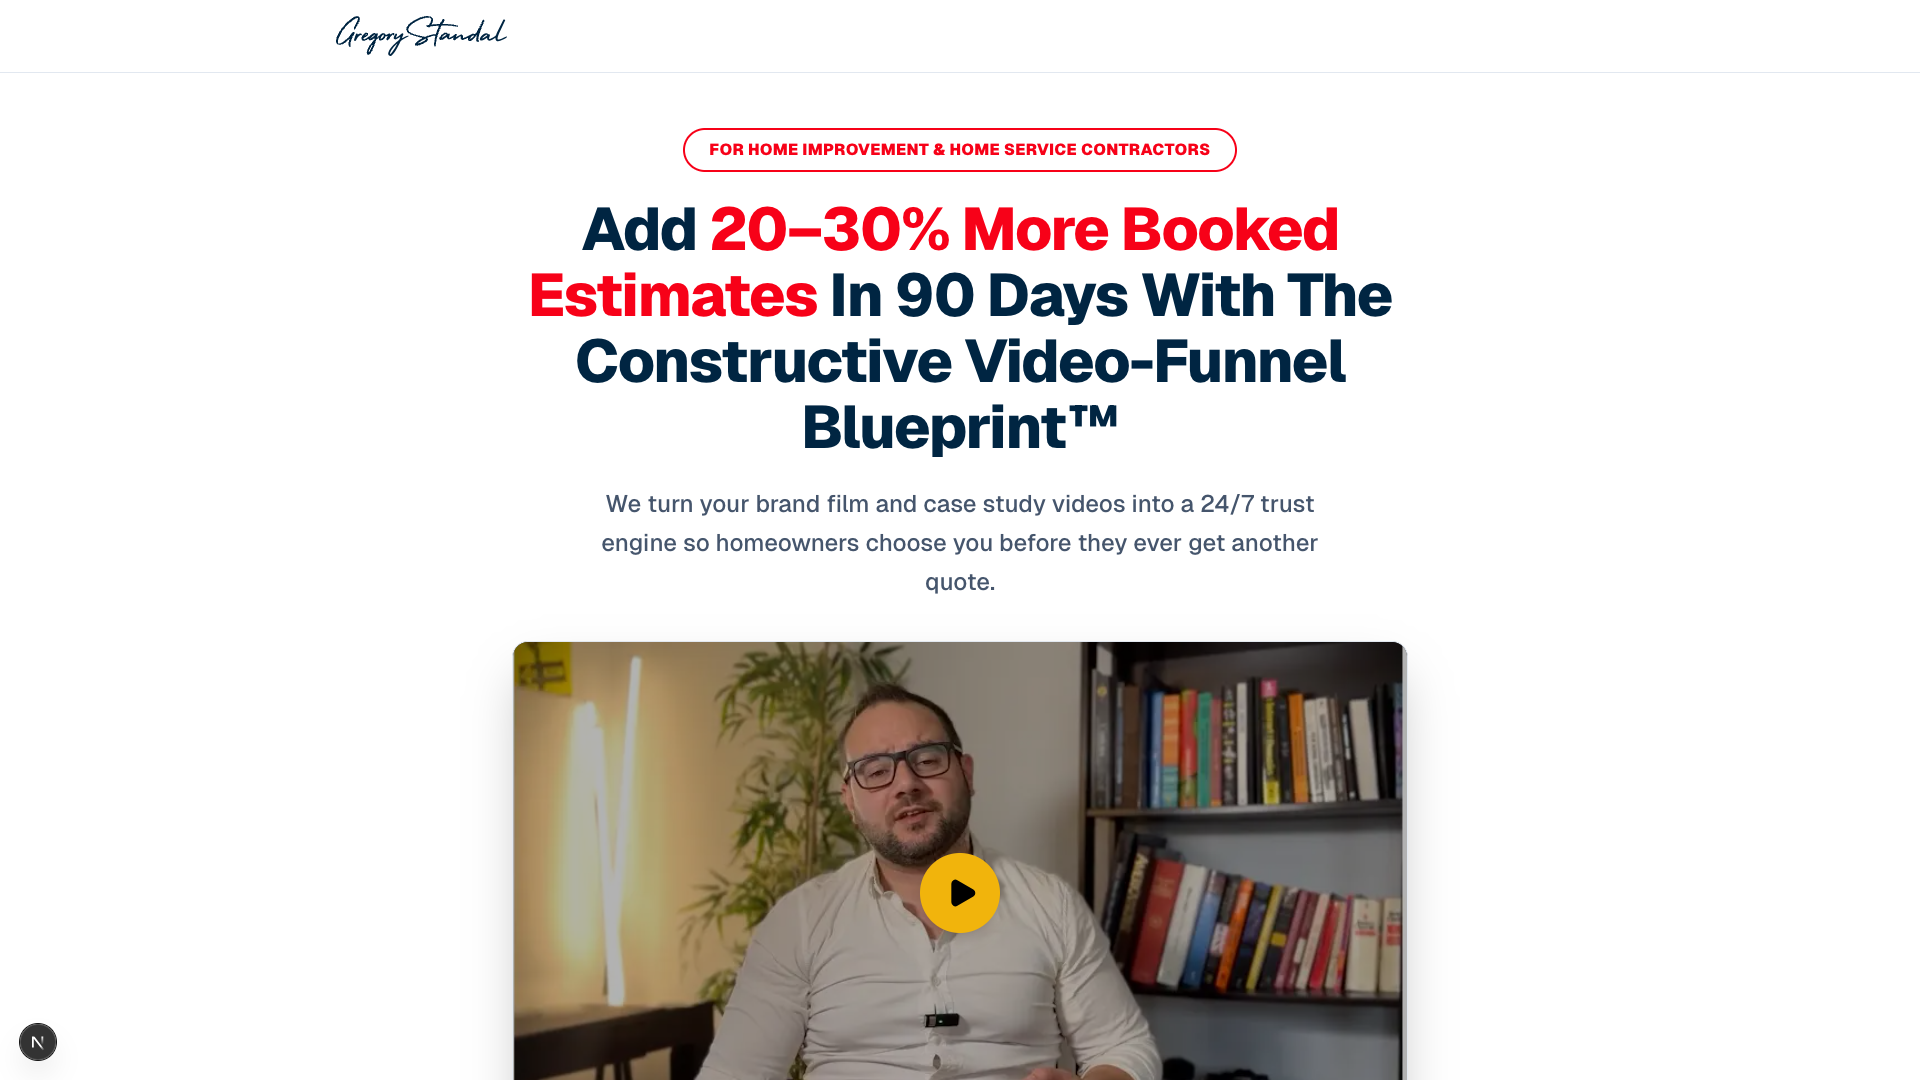
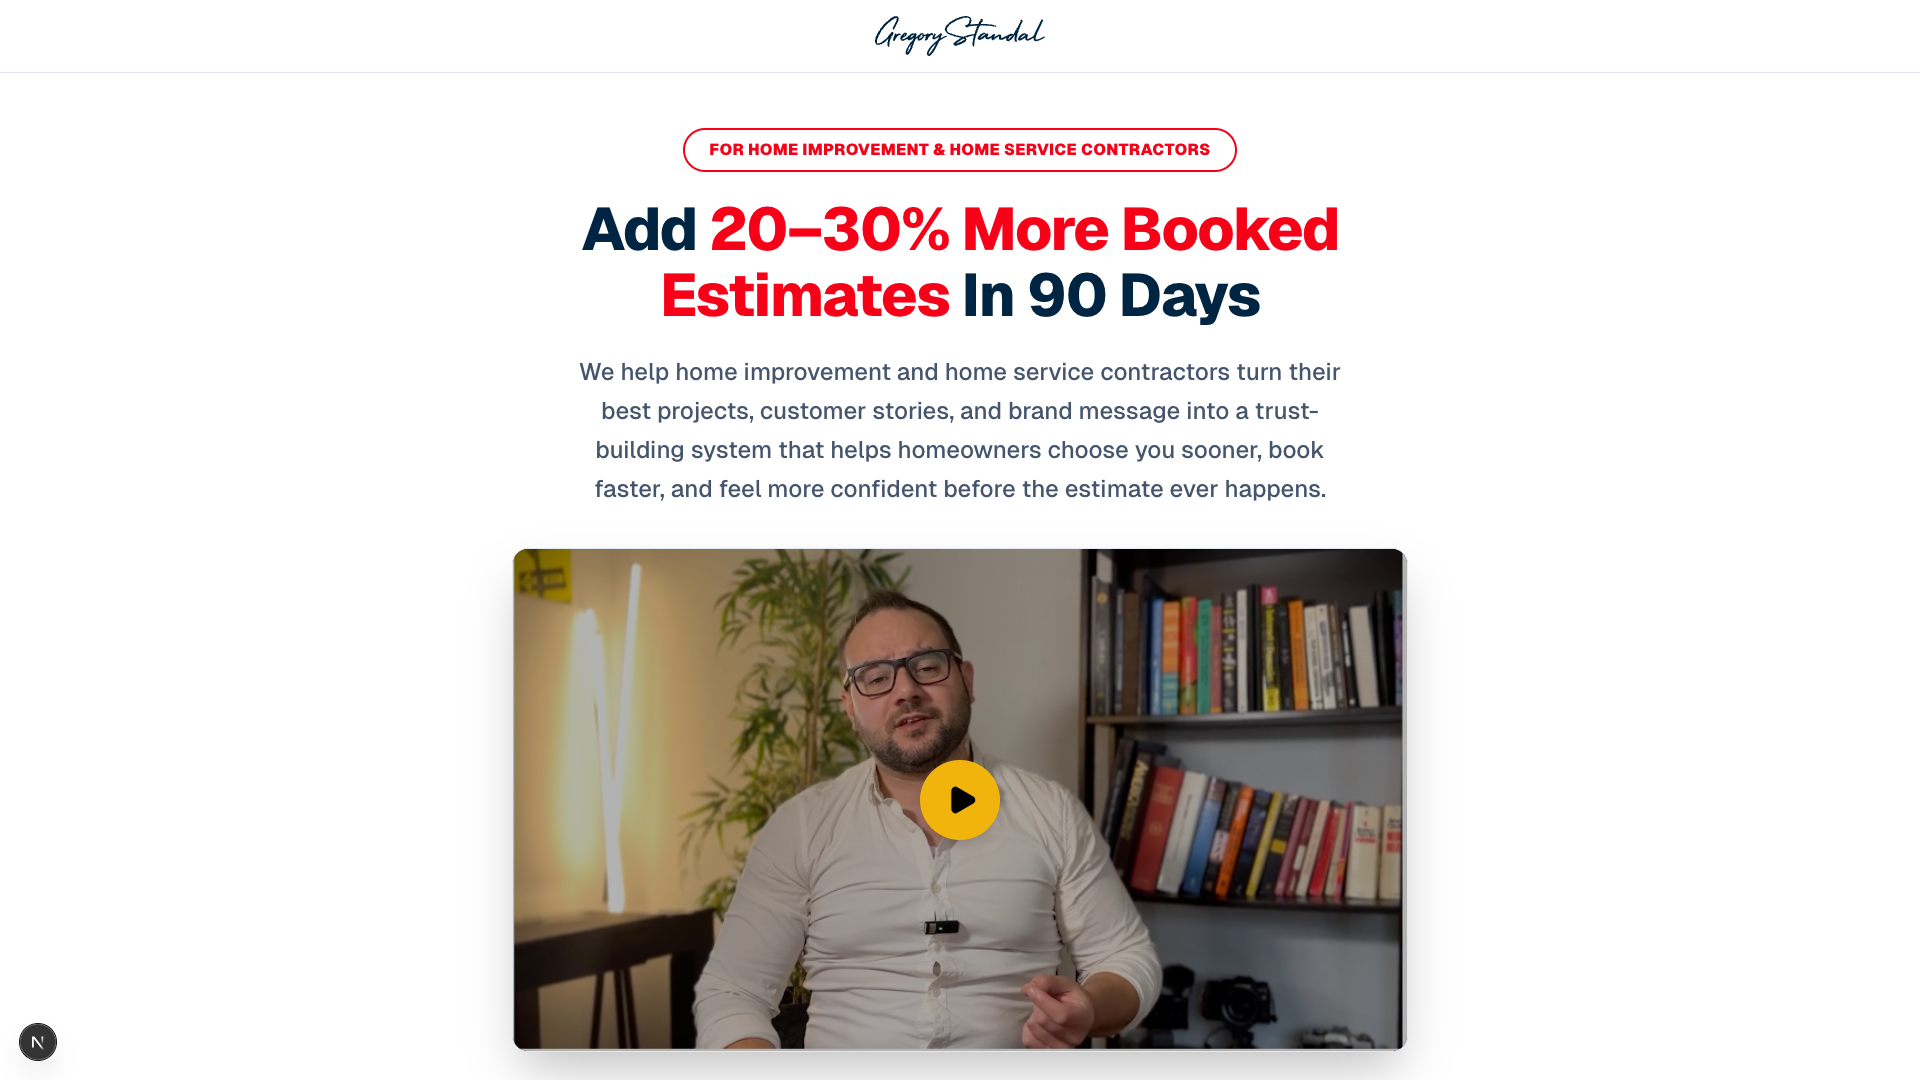
feat: Revamp Brand Builders V2 demo page with a new accent color, updated headlines, strategy phases, and refreshed thumbnail images.

Changed region(s): [[0.25, 0.2444, 0.75, 1.0], [0.4688, 0.0306, 0.5312, 0.0611], [0.1875, 0.0306, 0.25, 0.0611]]

diff --git a/app/demo/brand-builders-v2/page.tsx b/app/demo/brand-builders-v2/page.tsx
@@ -2,6 +2,7 @@
 import React, { useState } from 'react';
 import Link from 'next/link';
 import Image from 'next/image';
+import Script from 'next/script';
 import {
   PlayCircle,
   Play,
@@ -13,7 +14,7 @@ import {
 
 const colors = {
   primary: '#002542',
-  accent: '#F70118', // New Cape Pictures Red
+  accent: '#FF6B00', // Orange accent
   yellow: '#f1b40c', // New Cape Pictures Yellow
 };
 
@@ -75,7 +76,7 @@ const caseStudies = [
   },
   {
     title: "How PB Innovations Scaled Using Our Video Strategy (30x ROI)",
-    tag: "Remodeling",
+    tag: "Heavy Equipment",
     img: "https://newcapepictures.com/wp-content/uploads/2025/12/pb-innovations.jpg",
     videoId: "190"
   }
@@ -120,7 +121,7 @@ export default function NewCapeBrandBuilders() {
   };
 
   return (
-    <div className="bg-white text-slate-900 antialiased font-sans selection:bg-[#F70118]/20">
+    <div className="bg-white text-slate-900 antialiased font-sans selection:bg-[#FF6B00]/20">
       
       {/* 1. Header with New Cape Logo (Distractions removed for funnel focus) */}
       <header className="w-full z-50 bg-white border-b border-slate-200 py-4 fixed top-0 backdrop-blur-md">
@@ -134,8 +135,8 @@ export default function NewCapeBrandBuilders() {
         <div className="max-w-4xl mx-auto text-center relative z-10">
           
           {/* Header (Attention Avatar) */}
-          <div className="inline-flex items-center gap-2 px-6 py-2 rounded-full text-sm md:text-base font-black tracking-wide uppercase mb-6 bg-white border-2" style={{ color: colors.accent, borderColor: colors.accent }}>
-            For Home Improvement & Home Service Contractors
+          <div className="inline-flex text-white px-10 py-5 rounded-full font-black text-xl md:text-2xl shadow-xl items-center gap-3 uppercase mb-6" style={{ backgroundColor: colors.accent }}>
+            Stop Wasting Money on Ads
           </div>
 
           {/* Headline (Outcome Promise) */}
@@ -145,7 +146,7 @@ export default function NewCapeBrandBuilders() {
 
           {/* Subheadline (Mechanism + De-risk) */}
           <p className="text-xl md:text-2xl text-slate-600 mb-10 leading-relaxed font-medium mx-auto max-w-3xl">
-            We turn your videos, job stories, and brand positioning into a trust-building system that helps homeowners choose you before the estimate ever happens.
+            We turn your marketing into a system that makes your estimate a formality
           </p>
           
           {/* Hero VSL Video Emulation */}
@@ -219,20 +220,11 @@ export default function NewCapeBrandBuilders() {
           </div>
 
           {/* Proof Block Repeated CTAs */}
-          <div className="flex flex-col sm:flex-row items-center justify-center gap-6 mt-8">
-            <Link
-              href="#video-case-study"
-              onClick={scrollToVideo}
-              className="flex items-center justify-center gap-2 bg-white border border-slate-200 px-8 py-4 rounded-full font-black text-lg hover:bg-slate-50 transition shadow-sm w-full sm:w-auto text-[#002542]"
-            >
-              <PlayCircle className="w-6 h-6 shrink-0 text-[#f1b40c]" />
-              See Real Contractor Results
-            </Link>
-            <span className="text-slate-400 font-bold hidden sm:block">OR</span>
+          <div className="flex justify-center mt-8">
             <Link
               href="#cta-section"
               onClick={scrollToCTA}
-              className="text-white px-8 py-4 rounded-full font-black text-lg transition shadow-md hover:-translate-y-1 w-full sm:w-auto text-center uppercase"
+              className="text-white px-8 py-4 rounded-full font-black text-lg transition shadow-md hover:-translate-y-1 text-center uppercase"
               style={{ backgroundColor: colors.accent }}
             >
               Book Your Brand Strategy Call
@@ -279,7 +271,7 @@ export default function NewCapeBrandBuilders() {
           {/* Mid-page Bridge (Unified Label + Specific Text) */}
           <div className="bg-[#002542] rounded-3xl p-10 md:p-16 mb-12 flex flex-col md:flex-row items-center justify-between gap-8 shadow-xl">
             <div>
-              <h3 className="text-3xl font-black text-white mb-3">Want results like these in your market?</h3>
+              <h3 className="text-3xl font-black text-white mb-3">Want results like these for your business?</h3>
               <p className="text-slate-300 font-medium text-lg">Book your Brand Strategy Call and we'll map out how your contractor brand can earn more trust, book more estimates, and close more jobs.</p>
             </div>
             <Link
@@ -323,7 +315,7 @@ export default function NewCapeBrandBuilders() {
         <div className="max-w-5xl mx-auto px-4 relative z-10">
           <div className="text-center mb-16">
             <h2 className="text-4xl md:text-5xl font-black mb-6 text-[#002542]">
-              What We&apos;ll Map Out on Your Strategy Call
+              What We Map Out on Your Strategy Call
             </h2>
             <p className="text-xl text-slate-600 font-medium">
               The contractor-specific growth system that helps homeowners trust you sooner, book faster, and choose you over lower-priced competitors.
@@ -342,11 +334,10 @@ export default function NewCapeBrandBuilders() {
 
           <div className="space-y-6 mb-16">
             {[
-              { title: "Step 1 — Position You as the Local Authority", desc: "Define the exact customer profile, the painful problem, and the solution they're desperate for." },
-              { title: "Step 2 — High-Difference Offer + Website Overhaul", desc: "Give homeowners a clear, undeniable reason to choose you over 5 other quotes." },
-              { title: "Step 3 — Cinematic Trust Content", desc: "Brand film + story-driven case studies showing real transformations and results." },
-              { title: "Step 4 — YouTube Authority + SEO", desc: "Build a perpetual pipeline of warm, inbound leads searching for your expertise." },
-              { title: "Step 5 — Lead Nurture & Re-Engagement", desc: "Stay in front of interested homeowners and turn more existing interest into booked estimates." }
+              { title: "Phase 1 — Position You as the Local Authority", desc: "Define the exact customer profile, the painful problem, and the solution they're desperate for." },
+              { title: "Phase 2 — Custom Booking System Building", desc: "Brand film + story-driven case studies showing real transformations and results." },
+              { title: "Phase 3 — YouTube Authority + Email Newsletter", desc: "Build authority and humanize your brand while constantly nurturing new and existing audiences." },
+              { title: "Phase 4 — Run Ads", desc: "We drive paid traffic to this trust building content ecosystem to generate sales opportunities on auto-pilot." }
             ].map((step, idx) => (
               <div key={idx} className="bg-white p-8 md:p-10 rounded-2xl shadow-sm border border-slate-200 flex flex-col md:flex-row gap-6 md:items-center hover:shadow-md transition duration-300 group">
                 <div className="w-16 h-16 rounded-xl shrink-0 flex items-center justify-center font-black text-3xl shadow-inner group-hover:scale-105 transition transform text-white" style={{ backgroundColor: colors.primary }}>
@@ -382,7 +373,7 @@ export default function NewCapeBrandBuilders() {
         <div className="max-w-6xl mx-auto px-4 w-full">
           <div className="text-center mb-16">
             <h2 className="text-4xl md:text-5xl font-black mb-8 leading-tight max-w-4xl mx-auto">
-              Hundreds of thousands in trackable revenue generated for contractors just like you
+              Millions in trackable revenue generated for contractors just like you
             </h2>
             <div className="flex items-center justify-center gap-2 text-[#f1b40c]">
               {[...Array(5)].map((_, i) => <Star key={i} className="w-8 h-8 fill-current drop-shadow-sm" />)}
@@ -467,7 +458,7 @@ export default function NewCapeBrandBuilders() {
             {/* The New Way */}
             <div className="bg-[#002542] rounded-3xl p-8 md:p-12 shadow-xl flex flex-col relative overflow-hidden" style={{ border: `4px solid ${colors.accent}` }}>
               <div className="absolute top-0 right-0 w-64 h-64 bg-white/5 rounded-full blur-3xl -translate-y-1/2 translate-x-1/3"></div>
-              <h3 className="text-2xl font-black text-white mb-8 border-b border-white/10 pb-6 leading-snug">What You Get With Our Contractor Growth System</h3>
+              <h3 className="text-2xl font-black text-white mb-8 border-b border-white/10 pb-6 leading-snug">What You Get With Our Constructive Video Funnel Blueprint</h3>
               <ul className="space-y-6 flex-1 text-lg font-bold text-slate-200">
                 <li className="flex items-start gap-4">
                   <CheckCircle className="w-8 h-8 text-[#f1b40c] shrink-0 mt-0.5" />
@@ -507,7 +498,7 @@ export default function NewCapeBrandBuilders() {
         <div className="max-w-7xl mx-auto px-4 grid lg:grid-cols-2 gap-16 items-center">
           
           <div>
-            <div className="inline-block px-4 py-1.5 bg-[#f70118]/10 text-[#f70118] font-black uppercase text-xs rounded-full mb-8 tracking-widest border border-[#f70118]/20">
+            <div className="inline-block px-4 py-1.5 bg-[#FF6B00]/10 text-[#FF6B00] font-black uppercase text-xs rounded-full mb-8 tracking-widest border border-[#FF6B00]/20">
               Limited Availability
             </div>
             {/* Mirror Hook at Bottom */}
@@ -515,10 +506,10 @@ export default function NewCapeBrandBuilders() {
               Add 20–30% More Booked Estimates in 90 Days — Starting With One Strategy Call
             </h2>
             <ul className="space-y-5 mb-12 text-xl font-bold text-slate-700">
-              <li className="flex items-center gap-4"><CheckCircle className="w-8 h-8 text-[#F70118]"/> More booked estimates</li>
-              <li className="flex items-center gap-4"><CheckCircle className="w-8 h-8 text-[#F70118]"/> Higher close rates</li>
-              <li className="flex items-center gap-4"><CheckCircle className="w-8 h-8 text-[#F70118]"/> Better-fit homeowners</li>
-              <li className="flex items-center gap-4"><CheckCircle className="w-8 h-8 text-[#F70118]"/> More predictable revenue</li>
+              <li className="flex items-center gap-4"><CheckCircle className="w-8 h-8 text-[#FF6B00]"/> More booked estimates</li>
+              <li className="flex items-center gap-4"><CheckCircle className="w-8 h-8 text-[#FF6B00]"/> Higher close rates</li>
+              <li className="flex items-center gap-4"><CheckCircle className="w-8 h-8 text-[#FF6B00]"/> Better-fit homeowners</li>
+              <li className="flex items-center gap-4"><CheckCircle className="w-8 h-8 text-[#FF6B00]"/> More predictable revenue</li>
             </ul>
 
             <div className="bg-slate-50 border border-slate-200 p-8 rounded-2xl mt-12 relative shadow-sm">
@@ -534,7 +525,14 @@ export default function NewCapeBrandBuilders() {
 
           {/* New Cape Pictures CRM Booking Form Embed */}
           <div className="bg-white p-2 rounded-2xl shadow-xl relative border border-slate-200 h-[700px] overflow-hidden">
-             <iframe src="https://link.cursivecrm.com/widget/booking/tRgGOQiQsmjldJZwy3JE" className="w-full h-full border-none" title="Booking Calendar"></iframe>
+             <iframe
+               src="https://link.cursivecrm.com/widget/booking/tRgGOQiQsmjldJZwy3JE"
+               style={{ width: '100%', border: 'none', overflow: 'hidden', height: '100%' }}
+               scrolling="no"
+               id="ghYJkHL5Fkodr2z79LN0_1774367714803"
+               title="Booking Calendar"
+             />
+             <Script src="https://link.cursivecrm.com/js/form_embed.js" strategy="lazyOnload" />
           </div>
         </div>
       </section>
